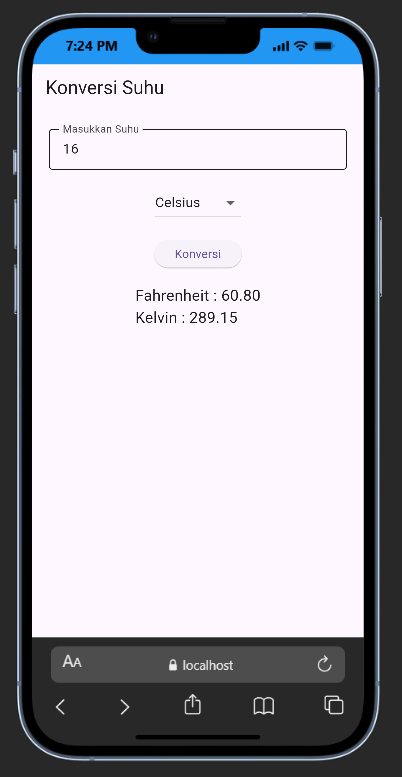
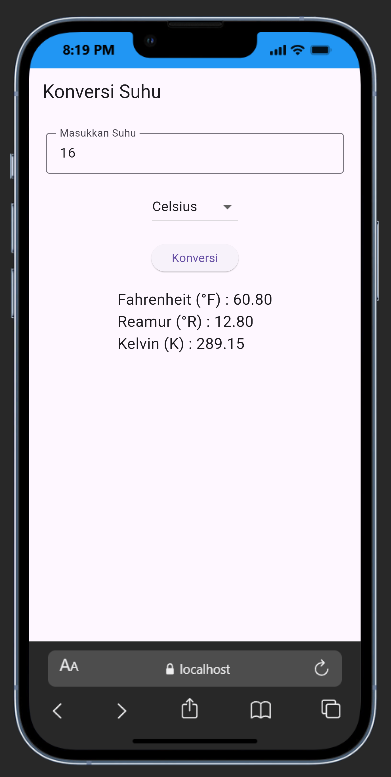
Penambahan Reamur

diff --git a/lib/main.dart b/lib/main.dart
@@ -25,36 +25,43 @@ class _KonversiSuhuState extends State<KonversiSuhu> {
   void konversi() {
     double suhu = double.parse(suhuController.text);
 
-    double c, f, k;
+    double c, f, r, k;
 
     if (satuanInput == "Celsius") {
       c = suhu;
       f = (c * 9 / 5) + 32;
+      r = c * 4 / 5;
       k = c + 273.15;
     } else if (satuanInput == "Fahrenheit") {
       c = (suhu - 32) * 5 / 9;
       f = suhu;
+      r = c * 4 / 5;
+      k = c + 273.15;
+    } else if (satuanInput == "Reamur") {
+      c = suhu * 5 / 4;
+      f = (c * 9 / 5) + 32;
+      r = suhu;
       k = c + 273.15;
     } else {
       c = suhu - 273.15;
       f = (c * 9 / 5) + 32;
+      r = c * 4 / 5;
       k = suhu;
     }
 
-    // setState(() {
-    //   hasil =
-    //       "Celsius : ${c.toStringAsFixed(2)}\nFahrenheit : ${f.toStringAsFixed(2)}\nKelvin : ${k.toStringAsFixed(2)}";
-    // });
     setState(() {
       if (satuanInput == "Celsius") {
         hasil =
-            "Fahrenheit : ${f.toStringAsFixed(2)}\nKelvin : ${k.toStringAsFixed(2)}";
+            "Fahrenheit (°F) : ${f.toStringAsFixed(2)}\nReamur (°R) : ${r.toStringAsFixed(2)}\nKelvin (K) : ${k.toStringAsFixed(2)}";
       } else if (satuanInput == "Fahrenheit") {
         hasil =
-            "Celsius : ${c.toStringAsFixed(2)}\nKelvin : ${k.toStringAsFixed(2)}";
+            "Celsius (°C) : ${c.toStringAsFixed(2)}\nReamur (°R) : ${r.toStringAsFixed(2)}\nKelvin (K) : ${k.toStringAsFixed(2)}";
+      } else if (satuanInput == "Reamur") {
+        hasil =
+            "Celsius (°C) : ${c.toStringAsFixed(2)}\nFahrenheit (°F) : ${f.toStringAsFixed(2)}\nKelvin (K) : ${k.toStringAsFixed(2)}";
       } else {
         hasil =
-            "Celsius : ${c.toStringAsFixed(2)}\nFahrenheit : ${f.toStringAsFixed(2)}";
+            "Celsius (°C) : ${c.toStringAsFixed(2)}\nFahrenheit (°F) : ${f.toStringAsFixed(2)}\nReamur (°R) : ${r.toStringAsFixed(2)}";
       }
     });
   }
@@ -79,7 +86,7 @@ class _KonversiSuhuState extends State<KonversiSuhu> {
 
             DropdownButton<String>(
               value: satuanInput,
-              items: ["Celsius", "Fahrenheit", "Kelvin"]
+              items: ["Celsius", "Fahrenheit", "Reamur", "Kelvin"]
                   .map(
                     (String value) =>
                         DropdownMenuItem(value: value, child: Text(value)),

diff --git a/README.md b/README.md
@@ -4,4 +4,5 @@
   <img src="celcius.png" width="250">
   <img src="fahrenheit.png" width="250">
   <img src="kelvin.png" width="250">
+  <img src="kelvin.png" width="250">
 </p>
